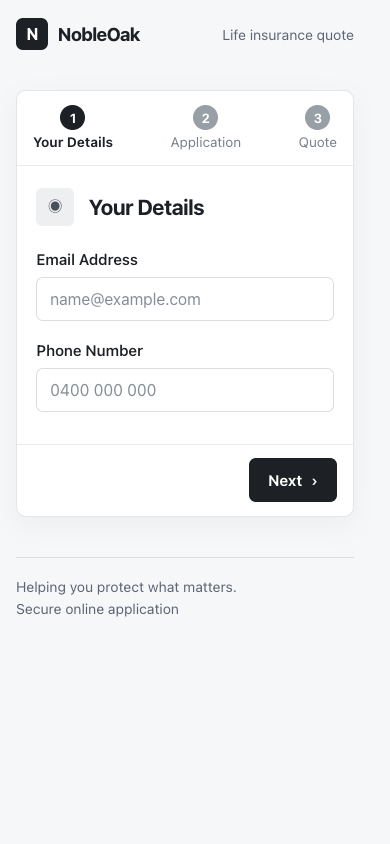
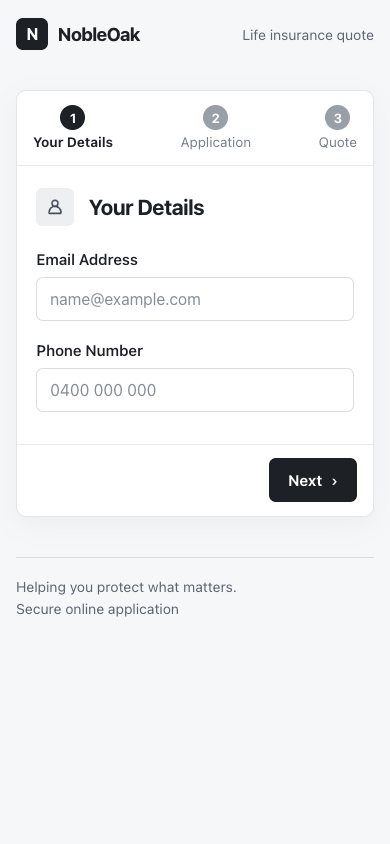
docs(readme): refresh desktop and mobile screenshots

diff --git a/README.md b/README.md
@@ -4,9 +4,11 @@ A responsive React, TypeScript, and Vite application for a multi-step life insur
 
 ## Screenshot
 
-| Desktop | Mobile (390px viewport) |
+Current screenshots show the **Your Details** step with the latest form heading icon.
+
+| Desktop — 1704 × 899 | Mobile — 390 × 844 |
 |---|---|
-| ![NobleOak quote journey — desktop](./docs/quote-journey.png) | ![NobleOak quote journey — mobile](./docs/quote-journey-mobile.png) |
+| ![Current NobleOak quote journey on desktop](./docs/quote-journey.png) | ![Current NobleOak quote journey on a mobile viewport](./docs/quote-journey-mobile.png) |
 
 ## Requirements
 
